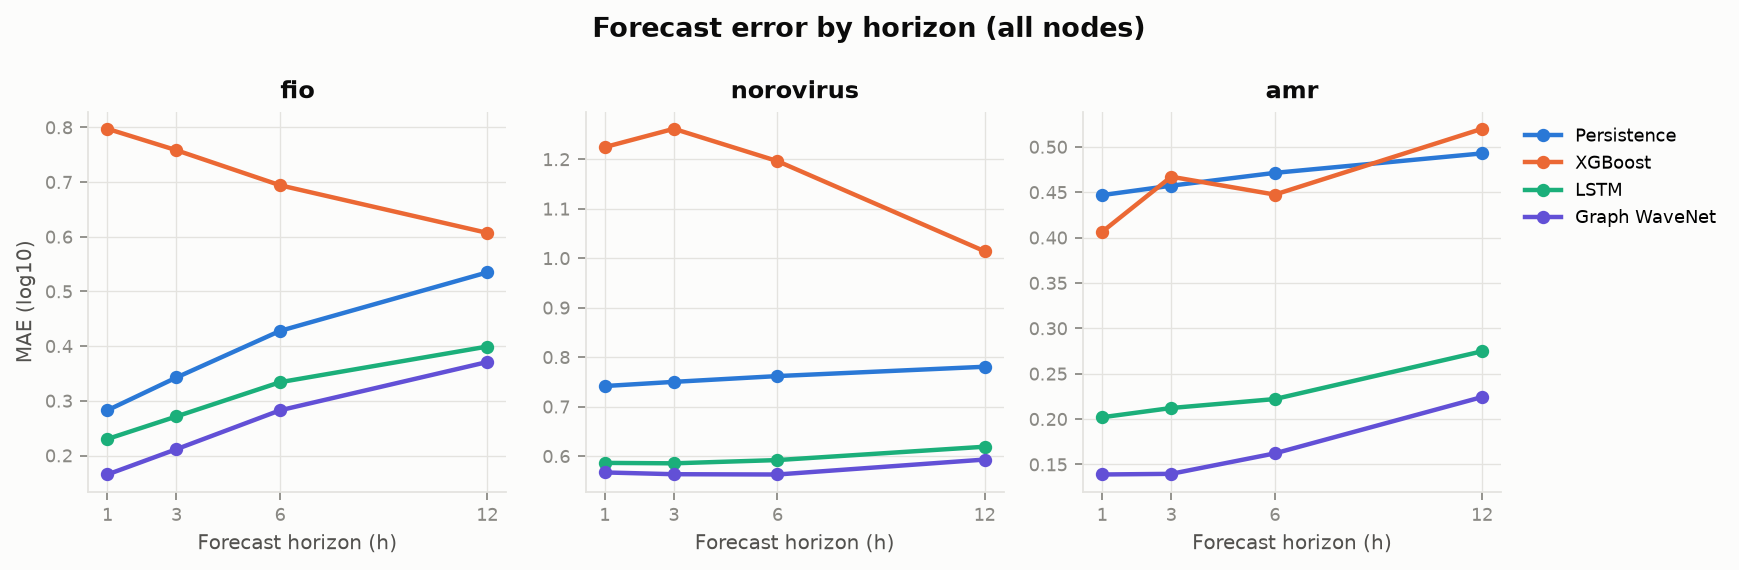
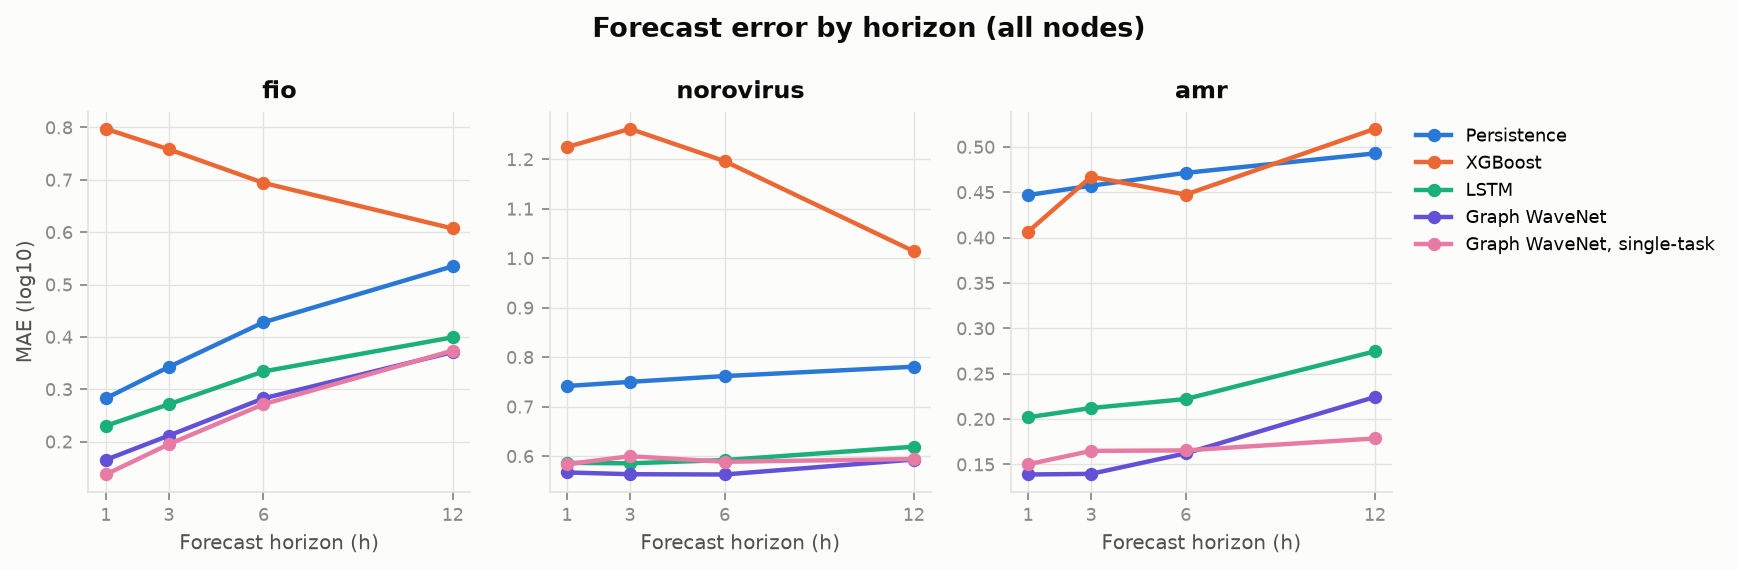
Add multi-task vs single-task experiment and Phase 3 results

diff --git a/results/phase3.md b/results/phase3.md
@@ -2,73 +2,86 @@
 
 ## MAE (log10) by node group
 
-| nodes       |   persistence |   xgboost |   lstm |   graph_wavenet |
-|:------------|--------------:|----------:|-------:|----------------:|
-| all         |         0.541 |     0.783 |  0.377 |           0.332 |
-| monitored   |         0.444 |     0.341 |  0.328 |           0.326 |
-| unmonitored |         0.778 |     1.864 |  0.499 |           0.346 |
+| nodes       |   persistence |   xgboost |   lstm |   graph_wavenet |   graph_wavenet_single |
+|:------------|--------------:|----------:|-------:|----------------:|-----------------------:|
+| all         |         0.541 |     0.783 |  0.377 |           0.332 |                  0.334 |
+| monitored   |         0.444 |     0.341 |  0.328 |           0.326 |                  0.333 |
+| unmonitored |         0.778 |     1.864 |  0.499 |           0.346 |                  0.336 |
 
 ## Multi-task vs single-task Graph WaveNet (MAE log10, all nodes)
 
-_single-task runs missing_
+| target    |   graph_wavenet |   graph_wavenet_single |
+|:----------|----------------:|-----------------------:|
+| amr       |           0.166 |                  0.165 |
+| fio       |           0.258 |                  0.244 |
+| norovirus |           0.572 |                  0.592 |
 
 ## 80% interval coverage vs truth
 
-| model         |   raw |   calibrated |
-|:--------------|------:|-------------:|
-| xgboost       | 0.535 |        0.532 |
-| lstm          | 0.635 |        0.636 |
-| graph_wavenet | 0.674 |        0.675 |
+| model                |   raw |   calibrated |
+|:---------------------|------:|-------------:|
+| xgboost              | 0.535 |        0.532 |
+| lstm                 | 0.635 |        0.636 |
+| graph_wavenet        | 0.674 |        0.675 |
+| graph_wavenet_single | 0.702 |        0.706 |
 
 ## 80% interval coverage vs sensor observations
 
-| model         |   raw |   calibrated |
-|:--------------|------:|-------------:|
-| xgboost       | 0.839 |        0.807 |
-| lstm          | 0.826 |        0.807 |
-| graph_wavenet | 0.815 |        0.823 |
+| model                |   raw |   calibrated |
+|:---------------------|------:|-------------:|
+| xgboost              | 0.839 |        0.807 |
+| lstm                 | 0.826 |        0.807 |
+| graph_wavenet        | 0.815 |        0.823 |
+| graph_wavenet_single | 0.84  |        0.823 |
 
 ## Mean interval width (log10)
 
-| model         |   raw |   calibrated |
-|:--------------|------:|-------------:|
-| xgboost       | 0.825 |        0.813 |
-| lstm          | 0.654 |        0.657 |
-| graph_wavenet | 0.652 |        0.656 |
+| model                |   raw |   calibrated |
+|:---------------------|------:|-------------:|
+| xgboost              | 0.825 |        0.813 |
+| lstm                 | 0.654 |        0.657 |
+| graph_wavenet        | 0.652 |        0.656 |
+| graph_wavenet_single | 0.688 |        0.695 |
 
 ## Raw 80% coverage per target
 
 Norovirus is mostly below the detection limit, so sensors report LOD/2 and models learn that value: well covered against observations, biased high against the (lower) truth.
 
-|                                |   observations |   truth |
-|:-------------------------------|---------------:|--------:|
-| ('graph_wavenet', 'amr')       |          0.795 |   0.866 |
-| ('graph_wavenet', 'fio')       |          0.804 |   0.859 |
-| ('graph_wavenet', 'norovirus') |          0.847 |   0.295 |
-| ('lstm', 'amr')                |          0.782 |   0.826 |
-| ('lstm', 'fio')                |          0.784 |   0.807 |
-| ('lstm', 'norovirus')          |          0.911 |   0.272 |
-| ('xgboost', 'amr')             |          0.802 |   0.758 |
-| ('xgboost', 'fio')             |          0.799 |   0.658 |
-| ('xgboost', 'norovirus')       |          0.916 |   0.189 |
+|                                       |   observations |   truth |
+|:--------------------------------------|---------------:|--------:|
+| ('graph_wavenet', 'amr')              |          0.795 |   0.866 |
+| ('graph_wavenet', 'fio')              |          0.804 |   0.859 |
+| ('graph_wavenet', 'norovirus')        |          0.847 |   0.295 |
+| ('graph_wavenet_single', 'amr')       |          0.794 |   0.899 |
+| ('graph_wavenet_single', 'fio')       |          0.809 |   0.907 |
+| ('graph_wavenet_single', 'norovirus') |          0.916 |   0.301 |
+| ('lstm', 'amr')                       |          0.782 |   0.826 |
+| ('lstm', 'fio')                       |          0.784 |   0.807 |
+| ('lstm', 'norovirus')                 |          0.911 |   0.272 |
+| ('xgboost', 'amr')                    |          0.802 |   0.758 |
+| ('xgboost', 'fio')                    |          0.799 |   0.658 |
+| ('xgboost', 'norovirus')              |          0.916 |   0.189 |
 
 ## MAE (log10) in calm vs high-pollution hours (truth above node's 95th percentile)
 
-| model         |   calm |   high_pollution |
-|:--------------|-------:|-----------------:|
-| persistence   |  0.516 |            1.154 |
-| xgboost       |  0.785 |            0.742 |
-| lstm          |  0.361 |            0.758 |
-| graph_wavenet |  0.317 |            0.691 |
+| model                |   calm |   high_pollution |
+|:---------------------|-------:|-----------------:|
+| persistence          |  0.516 |            1.154 |
+| xgboost              |  0.785 |            0.742 |
+| lstm                 |  0.361 |            0.758 |
+| graph_wavenet        |  0.317 |            0.691 |
+| graph_wavenet_single |  0.32  |            0.652 |
 
 ## FIO > 1000 CFU/100 mL alerts, 6 h ahead
 
-| model         | rule              |   precision |   recall |    f1 |   events |
-|:--------------|:------------------|------------:|---------:|------:|---------:|
-| persistence   | median > 1000     |       0.673 |    0.509 | 0.58  |    33606 |
-| xgboost       | median > 1000     |       0.428 |    0.763 | 0.549 |    33606 |
-| xgboost       | upper band > 1000 |       0.353 |    0.934 | 0.512 |    33606 |
-| lstm          | median > 1000     |       0.789 |    0.584 | 0.671 |    33606 |
-| lstm          | upper band > 1000 |       0.367 |    0.905 | 0.522 |    33606 |
-| graph_wavenet | median > 1000     |       0.86  |    0.624 | 0.724 |    33606 |
-| graph_wavenet | upper band > 1000 |       0.439 |    0.888 | 0.588 |    33606 |
+| model                | rule              |   precision |   recall |    f1 |   events |
+|:---------------------|:------------------|------------:|---------:|------:|---------:|
+| persistence          | median > 1000     |       0.673 |    0.509 | 0.58  |    33606 |
+| xgboost              | median > 1000     |       0.428 |    0.763 | 0.549 |    33606 |
+| xgboost              | upper band > 1000 |       0.353 |    0.934 | 0.512 |    33606 |
+| lstm                 | median > 1000     |       0.789 |    0.584 | 0.671 |    33606 |
+| lstm                 | upper band > 1000 |       0.367 |    0.905 | 0.522 |    33606 |
+| graph_wavenet        | median > 1000     |       0.86  |    0.624 | 0.724 |    33606 |
+| graph_wavenet        | upper band > 1000 |       0.439 |    0.888 | 0.588 |    33606 |
+| graph_wavenet_single | median > 1000     |       0.843 |    0.676 | 0.751 |    33606 |
+| graph_wavenet_single | upper band > 1000 |       0.419 |    0.896 | 0.571 |    33606 |

diff --git a/README.md b/README.md
@@ -107,8 +107,22 @@ uv run python scripts/train.py            # all models (~1 h on CPU); add --fast
 uv run python scripts/evaluate.py         # writes results/metrics.{csv,md}
 ```
 
-See [PLAN.md](PLAN.md) for Phase 3 (experiments and demo) and `docs/explainer.html` for a
-plain-language walkthrough.
+## Experiments (Phase 3)
+
+`uv run python scripts/experiments.py` writes `results/phase3.md` and the figures below.
+
+- **Graph vs no graph:** at nodes without a sensor, Graph WaveNet's error is 31% lower than the LSTM's.
+- **Multi-task vs single-task:** a tie overall (0.332 vs 0.334). Sharing helps norovirus, the
+  sparsest target (0.572 vs 0.592), and costs a little on hourly FIO (0.258 vs 0.244).
+- **Storms:** error roughly doubles in the top 5% of hours; Graph WaveNet is still best (0.69).
+- **Alerts:** FIO > 1000 CFU/100 mL, 6 h ahead: precision 0.86, recall 0.62, F1 0.72.
+- **Uncertainty:** 80% bands cover ~86% of truth for FIO/AMR; conformal calibration barely moves
+  them. Norovirus is biased high because 74% of samples are below the detection limit.
+
+![Error by node group](figures/node_groups.png)
+![Storm forecast](figures/forecast_event.png)
+
+See [PLAN.md](PLAN.md) for the plan and future work.
 
 Data: © OpenStreetMap contributors (ODbL); Environment Agency data under the Open Government
 Licence v3.0; Open-Meteo (CC BY 4.0).

diff --git a/PLAN.md b/PLAN.md
@@ -44,7 +44,7 @@ Train baselines and the graph model on the same data.
 Answer the research questions and package the results (`scripts/experiments.py` → `results/phase3.md`).
 
 - [x] Exp 1: Graph vs non-graph. The graph matches the LSTM at monitored nodes and cuts error by 31% at unmonitored ones (`figures/node_groups.png`)
-- [ ] Exp 2: Multi-task vs single-task Graph WaveNet (3 single-pathogen runs training)
+- [x] Exp 2: Multi-task vs single-task Graph WaveNet: a tie overall (0.332 vs 0.334). Sharing helps sparse norovirus (0.572 vs 0.592), costs a little on data-rich FIO (0.258 vs 0.244); one model instead of three
 - [x] Exp 3: High-pollution hours (top 5% per node): every model's error doubles; Graph WaveNet still best (0.69 vs LSTM 0.76)
 - [x] FIO > 1000 CFU/100 mL alerts 6 h ahead: Graph WaveNet F1 0.72 (precision 0.86, recall 0.62)
 - [x] Uncertainty: conformal calibration on validation observations. Bands already cover ~80% of observations and ~86% of truth for FIO/AMR. Norovirus is biased high by below-detection-limit samples (needs a censored loss)
